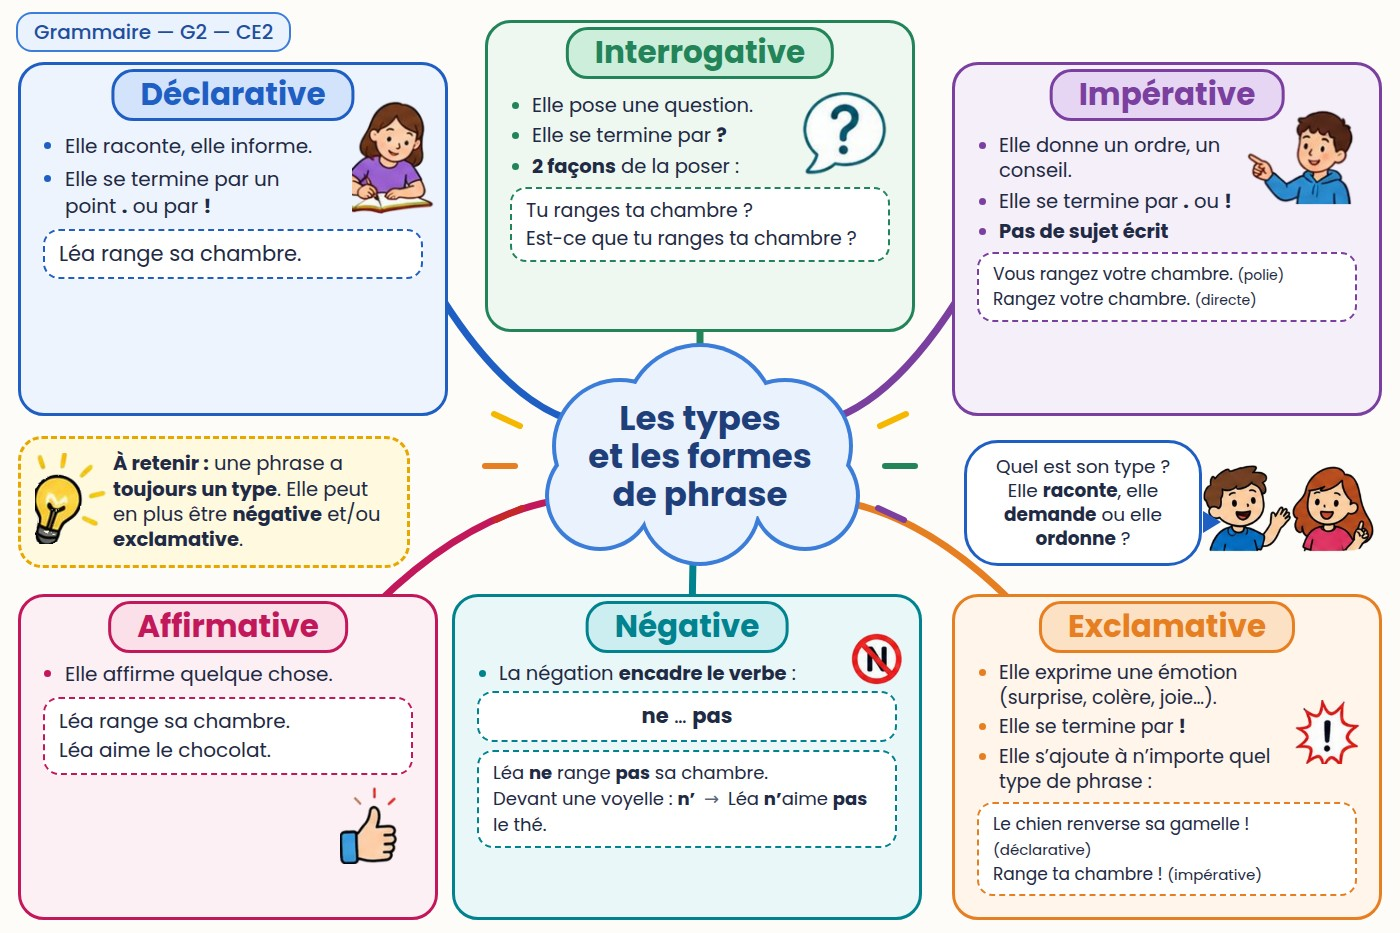
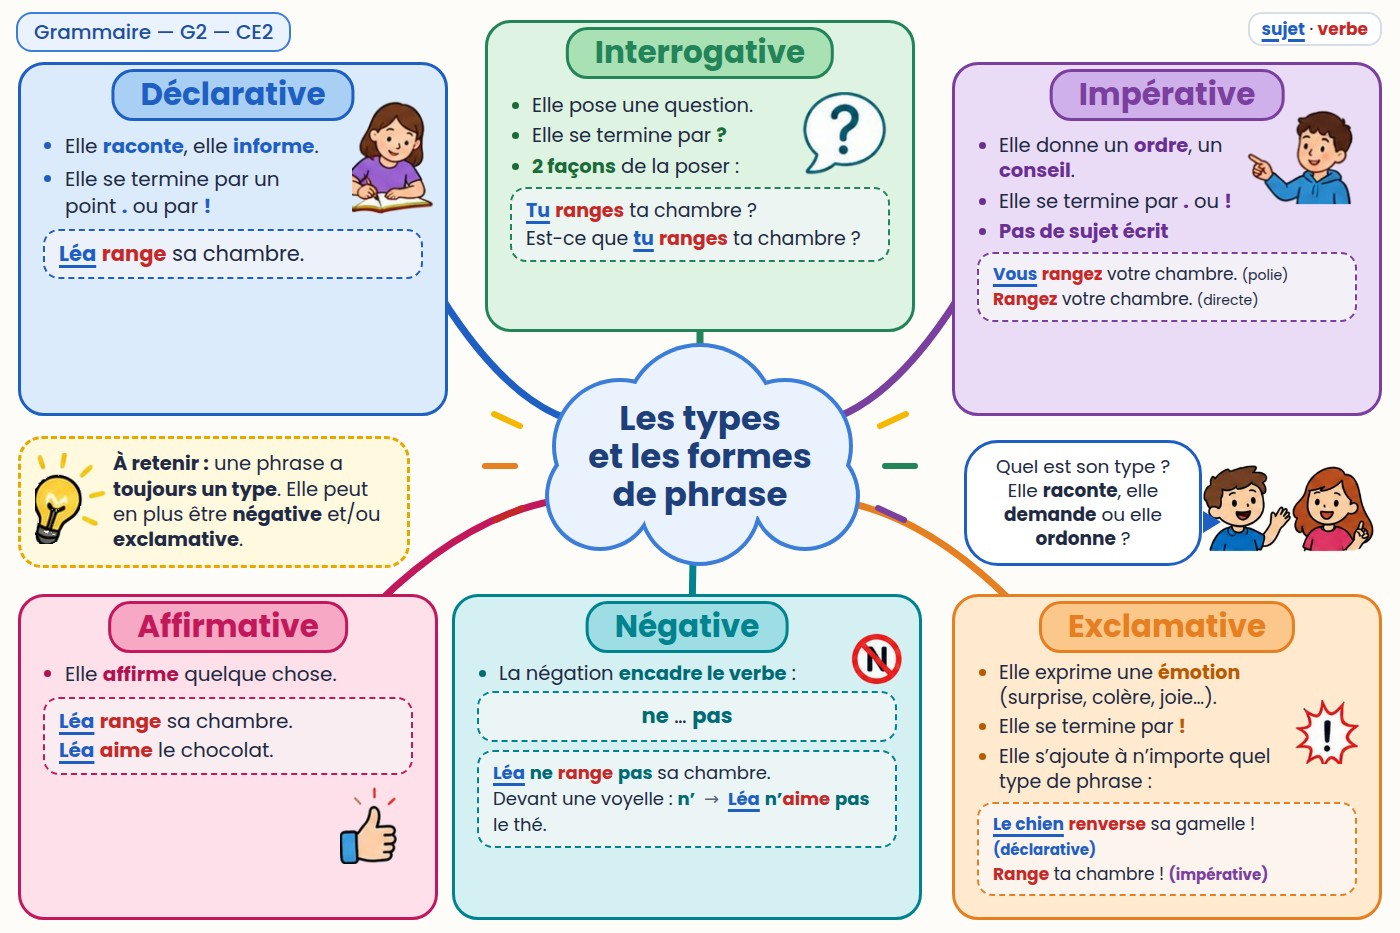
G2 : couleurs aussi soutenues que G1 (fonds et titres) et mots colorés (mots forts, sujet bleu, verbe rouge) avec légende

diff --git a/outils/common.css b/outils/common.css
@@ -53,3 +53,7 @@ table.tr td{padding:3px 6px;border-bottom:1.5px dashed #d8dde8}
 .t{color:#7b3fa0;font-weight:700}
 table.cj{border-collapse:collapse;font-size:19px;line-height:1.35}
 table.cj td{padding:1px 10px 1px 0;white-space:nowrap}
+
+.box.tint b{color:var(--k)}
+.box.tint li::marker{color:var(--k)}
+.box.tint .ex{background:color-mix(in srgb,var(--c) 8%,#fff)}

diff --git a/outils/lecons/g2_cartes.py b/outils/lecons/g2_cartes.py
@@ -12,45 +12,49 @@ from mapgen import build, TL, TC, TR
 AFF = (18, 618, 420, 302); NEG = (452, 618, 470, 302); EXC = (952, 618, 430, 302)
 EX = lambda s, fs=20: f'<div class="ex" style="font-size:{fs}px;line-height:1.45;margin-top:8px">{s}</div>'
 S, V = '<span class="s">{}</span>', '<span class="v">{}</span>'
+# couleurs aussi soutenues que sur G1 : (bordure, fond du cadre, fond du titre, mots forts)
+PALG = {'bleu': ('#1f5fc4', '#dcebfb', '#a9cff5', '#1f5fc4'), 'vert': ('#23845a', '#dff3e2', '#a9e0b4', '#1b6b3a'),
+        'violet': ('#7b3fa0', '#eadcf7', '#cfb0ea', '#6a2f93'), 'rose': ('#c2185b', '#fde0ea', '#f7a8c4', '#b0124f'),
+        'turquoise': ('#00838f', '#d5f0f2', '#9fdde4', '#006b75'), 'orange': ('#e67e22', '#ffeacf', '#fcc78a', '#b85a00')}
 
 
 def carte(lid, chip, niveau):
     ce2, cm2 = niveau == 'CE2', niveau == 'CM2'  # CM1 : ni l'un ni l'autre
     decl = '''<ul style="padding-right:104px;font-size:20px;margin-top:-14px">
-  <li>Elle raconte, elle informe.</li>
-  <li>Elle se termine par un point <b>.</b> ou par <b>!</b></li></ul>''' + EX('Léa range sa chambre.', 21)
+  <li>Elle <b>raconte</b>, elle <b>informe</b>.</li>
+  <li>Elle se termine par un point <b>.</b> ou par <b>!</b></li></ul>''' + EX(f'{S.format("Léa")} {V.format("range")} sa chambre.', 21)
     if cm2:
         decl = decl.replace('font-size:20px;margin-top:-14px', 'font-size:19px;line-height:1.25;margin-top:-14px') + \
             '<p class="small" style="margin:10px 0 0;font-size:17px;line-height:1.4"><b>Phrase simple</b> : un seul <span class="v">verbe conjugué</span>.<br><b>Phrase complexe</b> : plusieurs verbes conjugués, reliés par <b>et</b>, <b>mais</b>, <b>car</b> ou une virgule.</p>'
     tl_title = 'Déclarative'
     if ce2:
         inter = '''<ul style="font-size:19.5px;line-height:1.3;margin-top:-12px"><li>Elle pose une question.</li><li>Elle se termine par <b>?</b></li><li><b>2 façons</b> de la poser :</li></ul>''' + \
-                EX('Tu ranges ta chambre ?<br>Est-ce que tu ranges ta chambre ?', 19)
+                EX(f'{S.format("Tu")} {V.format("ranges")} ta chambre ?<br>Est-ce que {S.format("tu")} {V.format("ranges")} ta chambre ?', 19)
         inter_t = 'Interrogative'
     else:
         inter = '''<ul style="font-size:19.5px;line-height:1.3;margin-top:-12px"><li>Elle pose une question.</li><li>Elle se termine par <b>?</b></li><li><b>3 façons</b> de la poser :</li></ul>''' + \
-                EX('Tu ranges ta chambre ?<br>Est-ce que tu ranges ta chambre ?<br>Ranges-tu ta chambre ?', 18)
+                EX(f'{S.format("Tu")} {V.format("ranges")} ta chambre ?<br>Est-ce que {S.format("tu")} {V.format("ranges")} ta chambre ?<br>{V.format("Ranges")}-{S.format("tu")} ta chambre ?', 18)
         inter_t = 'Interrogative'
-    imp = '''<ul style="font-size:19.5px;padding-right:104px;line-height:1.3;margin-top:-14px"><li>Elle donne un ordre, un conseil.</li><li>Elle se termine par <b>.</b> ou <b>!</b></li><li><b>Pas de sujet écrit</b></li></ul>''' + \
-          EX('Vous rangez votre chambre. <span style="font-size:14px">(polie)</span><br>Rangez votre chambre. <span style="font-size:14px">(directe)</span>', 17)
-    aff = '<ul style="font-size:20px;margin-top:-10px"><li>Elle affirme quelque chose.</li></ul>' + EX('Léa range sa chambre.<br>Léa aime le chocolat.', 20)
+    imp = '''<ul style="font-size:19.5px;padding-right:104px;line-height:1.3;margin-top:-14px"><li>Elle donne un <b>ordre</b>, un <b>conseil</b>.</li><li>Elle se termine par <b>.</b> ou <b>!</b></li><li><b>Pas de sujet écrit</b></li></ul>''' + \
+          EX(f'{S.format("Vous")} {V.format("rangez")} votre chambre. <span style="font-size:14px">(polie)</span><br>{V.format("Rangez")} votre chambre. <span style="font-size:14px">(directe)</span>', 17)
+    aff = '<ul style="font-size:20px;margin-top:-10px"><li>Elle <b>affirme</b> quelque chose.</li></ul>' + EX(f'{S.format("Léa")} {V.format("range")} sa chambre.<br>{S.format("Léa")} {V.format("aime")} le chocolat.', 20)
     if ce2:
         neg = '''<ul style="font-size:19.5px;line-height:1.3;margin-top:-10px"><li>La négation <b>encadre le verbe</b> :</li></ul><div class="ex" style="font-size:21px;margin-top:4px;text-align:center"><b>ne</b> … <b>pas</b></div>''' + \
-              EX('Léa <b>ne</b> range <b>pas</b> sa chambre.<br>Devant une voyelle : <b>n’</b> <span class="arrow">→</span> Léa <b>n’</b>aime <b>pas</b> le thé.', 18)
+              EX(f'{S.format("Léa")} <b>ne</b> {V.format("range")} <b>pas</b> sa chambre.<br>Devant une voyelle : <b>n’</b> <span class="arrow">→</span> {S.format("Léa")} <b>n’</b>{V.format("aime")} <b>pas</b> le thé.', 18)
     else:
         neg = '''<ul style="font-size:19px;line-height:1.3;margin-top:-10px"><li>La négation <b>encadre le verbe</b> :</li></ul><div class="ex" style="font-size:19px;margin-top:4px;text-align:center">ne… pas, ne… jamais, ne… plus,<br>ne… rien, ne… personne</div>''' + \
-              EX('Léa <b>ne</b> range <b>jamais</b> sa chambre.<br>Devant une voyelle : <b>n’</b> <span class="arrow">→</span> Léa <b>n’</b>écrit <b>rien</b>.', 18)
-    exc = '''<ul style="padding-right:84px;font-size:19px;line-height:1.3;margin-top:-10px"><li>Elle exprime une émotion (surprise, colère, joie…).</li><li>Elle se termine par <b>!</b></li><li>Elle s’ajoute à n’importe quel type de phrase :</li></ul>''' + \
-          EX('Le chien renverse sa gamelle ! <span style="font-size:15px">(déclarative)</span><br>Range ta chambre ! <span style="font-size:15px">(impérative)</span>', 17)
+              EX(f'{S.format("Léa")} <b>ne</b> {V.format("range")} <b>jamais</b> sa chambre.<br>Devant une voyelle : <b>n’</b> <span class="arrow">→</span> {S.format("Léa")} <b>n’</b>{V.format("écrit")} <b>rien</b>.', 18)
+    exc = '''<ul style="padding-right:84px;font-size:19px;line-height:1.3;margin-top:-10px"><li>Elle exprime une <b>émotion</b> (surprise, colère, joie…).</li><li>Elle se termine par <b>!</b></li><li>Elle s’ajoute à n’importe quel type de phrase :</li></ul>''' + \
+          EX(f'{S.format("Le chien")} {V.format("renverse")} sa gamelle ! <span style="font-size:15px;color:#1f5fc4;font-weight:700">(déclarative)</span><br>{V.format("Range")} ta chambre ! <span style="font-size:15px;color:#7b3fa0;font-weight:700">(impérative)</span>', 17)
     boxes = [
-     dict(id='decl', col='bleu', geom=TL, ext=24, title=tl_title, figs=[('girl', 352, 98, 84)], html=decl, hstyle='top:30px'),
-     dict(id='inter', col='vert', geom=TC, ext=24, title=inter_t, hstyle='top:30px', html=inter, figs=[('q', 800, 92, 90)]),
-     dict(id='imp', col='violet', geom=TR, ext=24, title='Impérative', hstyle='top:30px', figs=[('boy', 1244, 106, 112)], html=imp),
-     dict(id='aff', ext=24, col='rose', geom=AFF, title='Affirmative', hstyle='top:30px', html=aff, figs=[('thumb', 340, 785, 62)], style='padding-top:50px'),
-     dict(id='neg', ext=24, col='turquoise', geom=NEG, title='Négative', hstyle='top:30px', html=neg, figs=[('no', 850, 632, 54)], style='padding-top:50px'),
-     dict(id='excl', ext=24, col='orange', geom=EXC, title='Exclamative', hstyle='top:30px', html=exc, figs=[('burst', 1290, 700, 74)], style='padding-top:50px'),
+     dict(id='decl', col='bleu', pal=PALG['bleu'], geom=TL, ext=24, title=tl_title, figs=[('girl', 352, 98, 84)], html=decl, hstyle='top:30px'),
+     dict(id='inter', col='vert', pal=PALG['vert'], geom=TC, ext=24, title=inter_t, hstyle='top:30px', html=inter, figs=[('q', 800, 92, 90)]),
+     dict(id='imp', col='violet', pal=PALG['violet'], geom=TR, ext=24, title='Impérative', hstyle='top:30px', figs=[('boy', 1244, 106, 112)], html=imp),
+     dict(id='aff', ext=24, col='rose', pal=PALG['rose'], geom=AFF, title='Affirmative', hstyle='top:30px', html=aff, figs=[('thumb', 340, 785, 62)], style='padding-top:50px'),
+     dict(id='neg', ext=24, col='turquoise', pal=PALG['turquoise'], geom=NEG, title='Négative', hstyle='top:30px', html=neg, figs=[('no', 850, 632, 54)], style='padding-top:50px'),
+     dict(id='excl', ext=24, col='orange', pal=PALG['orange'], geom=EXC, title='Exclamative', hstyle='top:30px', html=exc, figs=[('burst', 1290, 700, 74)], style='padding-top:50px'),
     ]
-    legend = ''
+    legend = f'{S.format("sujet")} · {V.format("verbe")}'
     titre = 'Les types<br>et les formes<br>de phrase'
     bulle = lambda x, y, w, h, txt, tail: f'<div style="position:absolute;left:{x}px;top:{y}px;width:{w}px;height:{h}px;background:#fff;border:3.5px solid #1f5fc4;border-radius:34px;display:flex;align-items:center;justify-content:center;text-align:center;padding:10px 18px;font-size:18.5px;line-height:1.3;color:#1f2a44"><span>{txt}</span><i style="position:absolute;{tail}"></i></div>'
     note = ('<div style="position:absolute;left:18px;top:436px;width:392px;height:132px;background:#fff9e0;border:3.5px dashed #e6a700;border-radius:24px;display:flex;align-items:center;gap:12px;padding:6px 12px 6px 92px;font-size:19.5px;line-height:1.3;color:#1f2a44">'
@@ -59,7 +63,7 @@ def carte(lid, chip, niveau):
     duo = ('<img src="file://' + os.path.join(os.path.dirname(os.path.abspath(__file__)), '..', 'img', 'g2', 'duo.png') + '" style="position:absolute;left:1200px;top:462px;width:180px">'
            + bulle(964, 440, 238, 126, 'Quel est son type ?<br>Elle <b>raconte</b>, elle <b>demande</b> ou elle <b>ordonne</b> ?', 'right:-22px;bottom:30px;border:11px solid transparent;border-left:18px solid #1f5fc4;border-right:0'))
     extra_html = note + duo
-    return build(lid, titre, chip, legend, boxes, extra_html=extra_html, sub='', title_size=34, legend_pos='right:26px;top:540px', cloud_dy=26)
+    return build(lid, titre, chip, legend, boxes, extra_html=extra_html, sub='', title_size=34, cloud_dy=26)
 
 
 if __name__ == '__main__':

diff --git a/outils/mapgen.py b/outils/mapgen.py
@@ -57,13 +57,16 @@ def build(lid, titre, chip, legend, boxes, sub='', title_size=40, legend_pos='ri
     for b in boxes:
         b = dict(b, html=nb(b['html']), title=nb(b['title']))
         c, bg, hb = PAL[b['col']]
+        k = c
+        if 'pal' in b:   # couleurs plus soutenues, comme G1 : (bordure, fond, fond du titre, couleur des mots forts)
+            c, bg, hb, k = b['pal']
         l, t, w, h = b['geom']
         extra = b.get('style', '')
         if 'ext' in b:   # cadre plein agrandi vers le haut de `ext` px (même haut que la zone cliquable en pointillés) ; le contenu garde sa place
             pad = int(re.search(r'padding-top:(\d+)px', extra).group(1)) if 'padding-top' in extra else 58
             extra = re.sub(r'padding-top:\d+px;?', '', extra) + f';padding-top:{pad + b["ext"]}px'
             t, h = t - b['ext'], h + b['ext']
-        parts.append(f'<div class="box" style="--c:{c};--bg:{bg};--hb:{hb};left:{l}px;top:{t}px;width:{w}px;height:{h}px;{extra}"><h2 style="{b.get('hstyle','')}">{b["title"]}</h2>{b["html"]}</div>')
+        parts.append(f'<div class="box{" tint" if "pal" in b else ""}" style="--c:{c};--k:{k};--bg:{bg};--hb:{hb};left:{l}px;top:{t}px;width:{w}px;height:{h}px;{extra}"><h2 style="{b.get('hstyle','')}">{b["title"]}</h2>{b["html"]}</div>')
         if b.get('avatar'):
             who, x, y = b['avatar']
             pos = 'left:-14%;top:-6%;width:125%;height:125%' if who == 'girl' else 'left:-22%;top:-4%;width:130%;height:130%'

diff --git a/CLAUDE.md b/CLAUDE.md
@@ -51,7 +51,7 @@ Site des leçons interactives (ceintures de français CM1) publié avec GitHub P
   une ceinture absente de la classe demandée ouvre la leçon d'une autre classe qui l'a (21/10/2026).
 - Sommaire par classe : boutons CE2 / CM1 / CM2 (adresse `#niveau=CE2`…). Une leçon sans champ `niveau`
   est rangée en CM1 ; pour une leçon d'une autre classe, ajouter `niveau:'CE2'` ou `niveau:'CM2'` dans `TRACES`.
-- Cartes de G2 (13/11/2026) : les trois (`G2`, `G2-CE2`, `G2-CM2`) sont fabriquées par `outils/lecons/g2_cartes.py` (même apparence ; dessins des enfants et pictos = images découpées de la carte CM1 d’origine, `outils/img/g2/*.png`, jamais redessinés). `python3 outils/lecons/g2_cartes.py`, puis copier `outils/sortie/G2*_carte.jpeg` dans `images/`. Éléments repris de G1 (note « À retenir » avec l’ampoule, duo d’enfants qui parle dans une bulle : images `outils/img/g2/ampoule.png`, `duo.png` découpées de G1, `extra_html` de `build`) ; nuage central descendu (`cloud_dy=26`), numéros des zones à l’intérieur du cadre (CSS `.zone .num`, en haut à gauche). Cadres pleins = zones cliquables : option `ext` de `build` (mapgen.py : le haut du cadre monte de `ext` px, le titre est posé à l’intérieur, `hstyle=top:30px`), zones de G2 = cadres exacts.
+- Cartes de G2 (13/11/2026) : les trois (`G2`, `G2-CE2`, `G2-CM2`) sont fabriquées par `outils/lecons/g2_cartes.py` (même apparence ; dessins des enfants et pictos = images découpées de la carte CM1 d’origine, `outils/img/g2/*.png`, jamais redessinés). `python3 outils/lecons/g2_cartes.py`, puis copier `outils/sortie/G2*_carte.jpeg` dans `images/`. Couleurs soutenues comme G1 (`PALG`, option `pal` de `build`, classe `.box.tint`) et mots forts / sujet (bleu souligné) / verbe (rouge) colorés ; éléments repris de G1 (note « À retenir » avec l’ampoule, duo d’enfants qui parle dans une bulle : images `outils/img/g2/ampoule.png`, `duo.png` découpées de G1, `extra_html` de `build`) ; nuage central descendu (`cloud_dy=26`), numéros des zones à l’intérieur du cadre (CSS `.zone .num`, en haut à gauche). Cadres pleins = zones cliquables : option `ext` de `build` (mapgen.py : le haut du cadre monte de `ext` px, le titre est posé à l’intérieur, `hstyle=top:30px`), zones de G2 = cadres exacts.
 - CM2 : mêmes numéros, mêmes couleurs, mêmes notions qu'en CM1 (choix de l'enseignante, octobre 2026).
   Une leçon CM2 (id `XX-CM2`, code affiché `XX`) = la leçon CM1 + les écrans de `CM2_PLUS` (étiquette « CM2 »,
   placés après le dernier écran de leur section) + un encadré « En CM2, j'apprends aussi » sous la carte.
